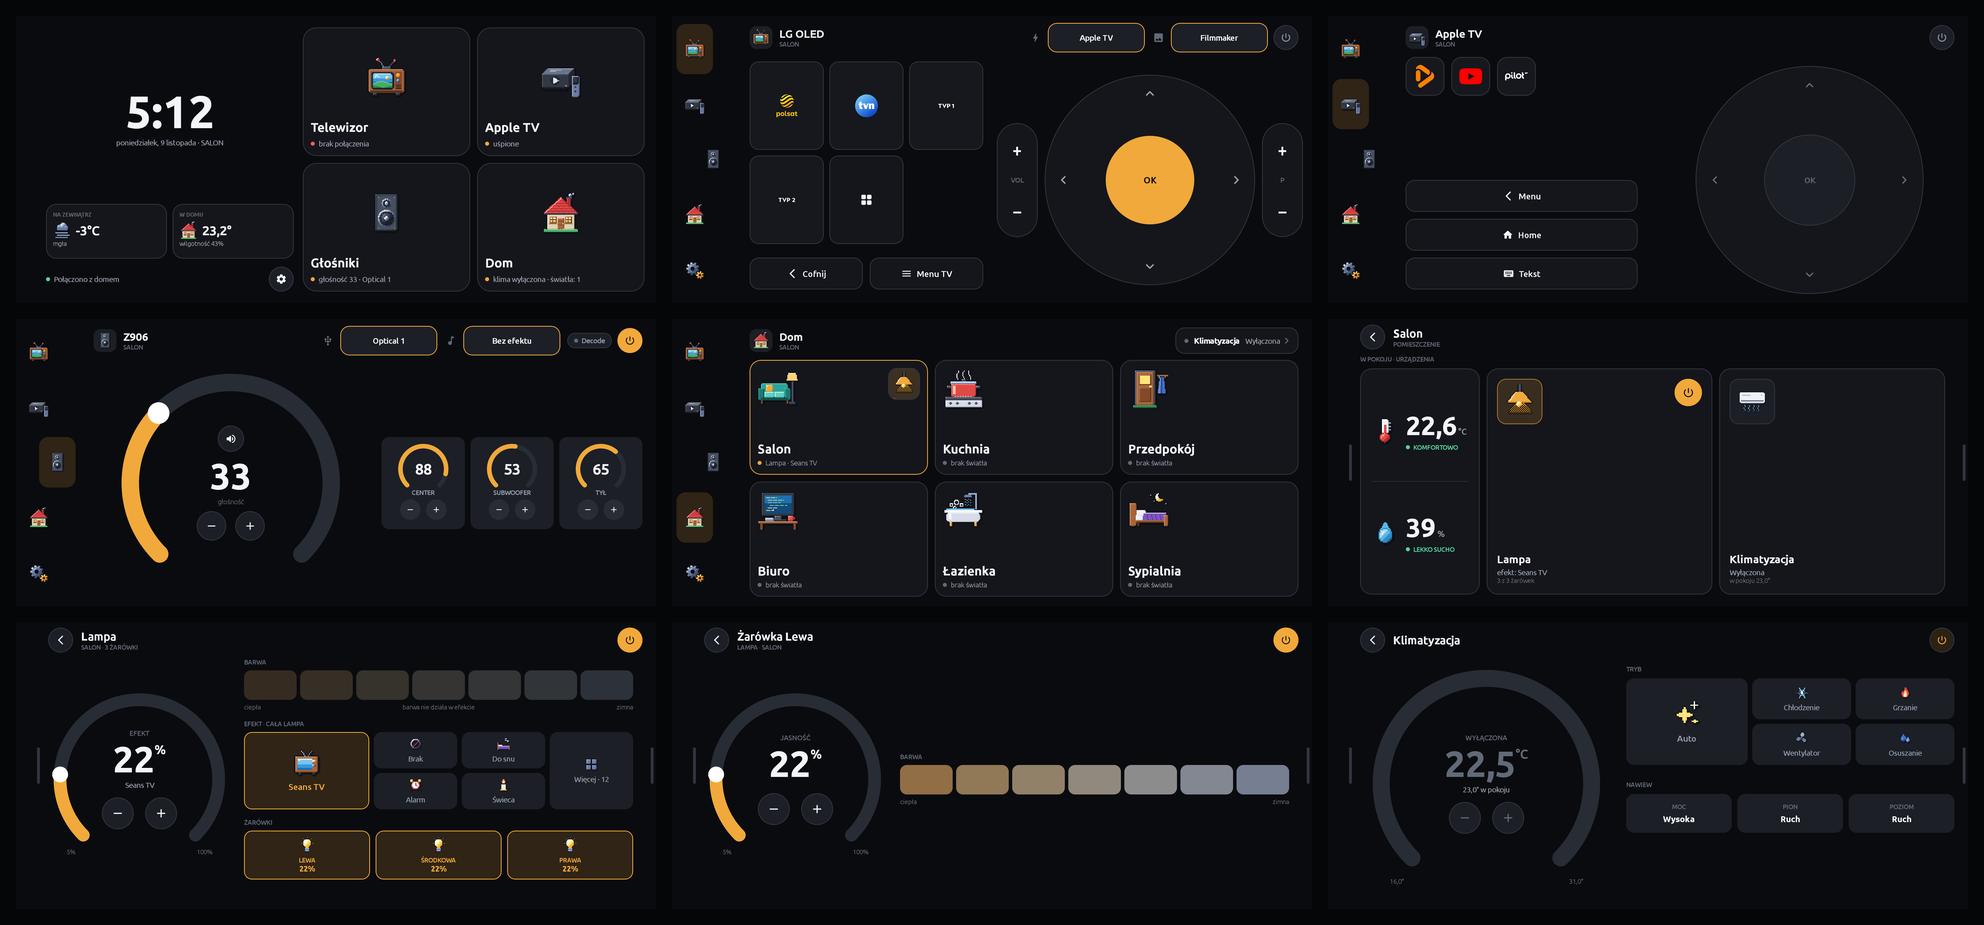
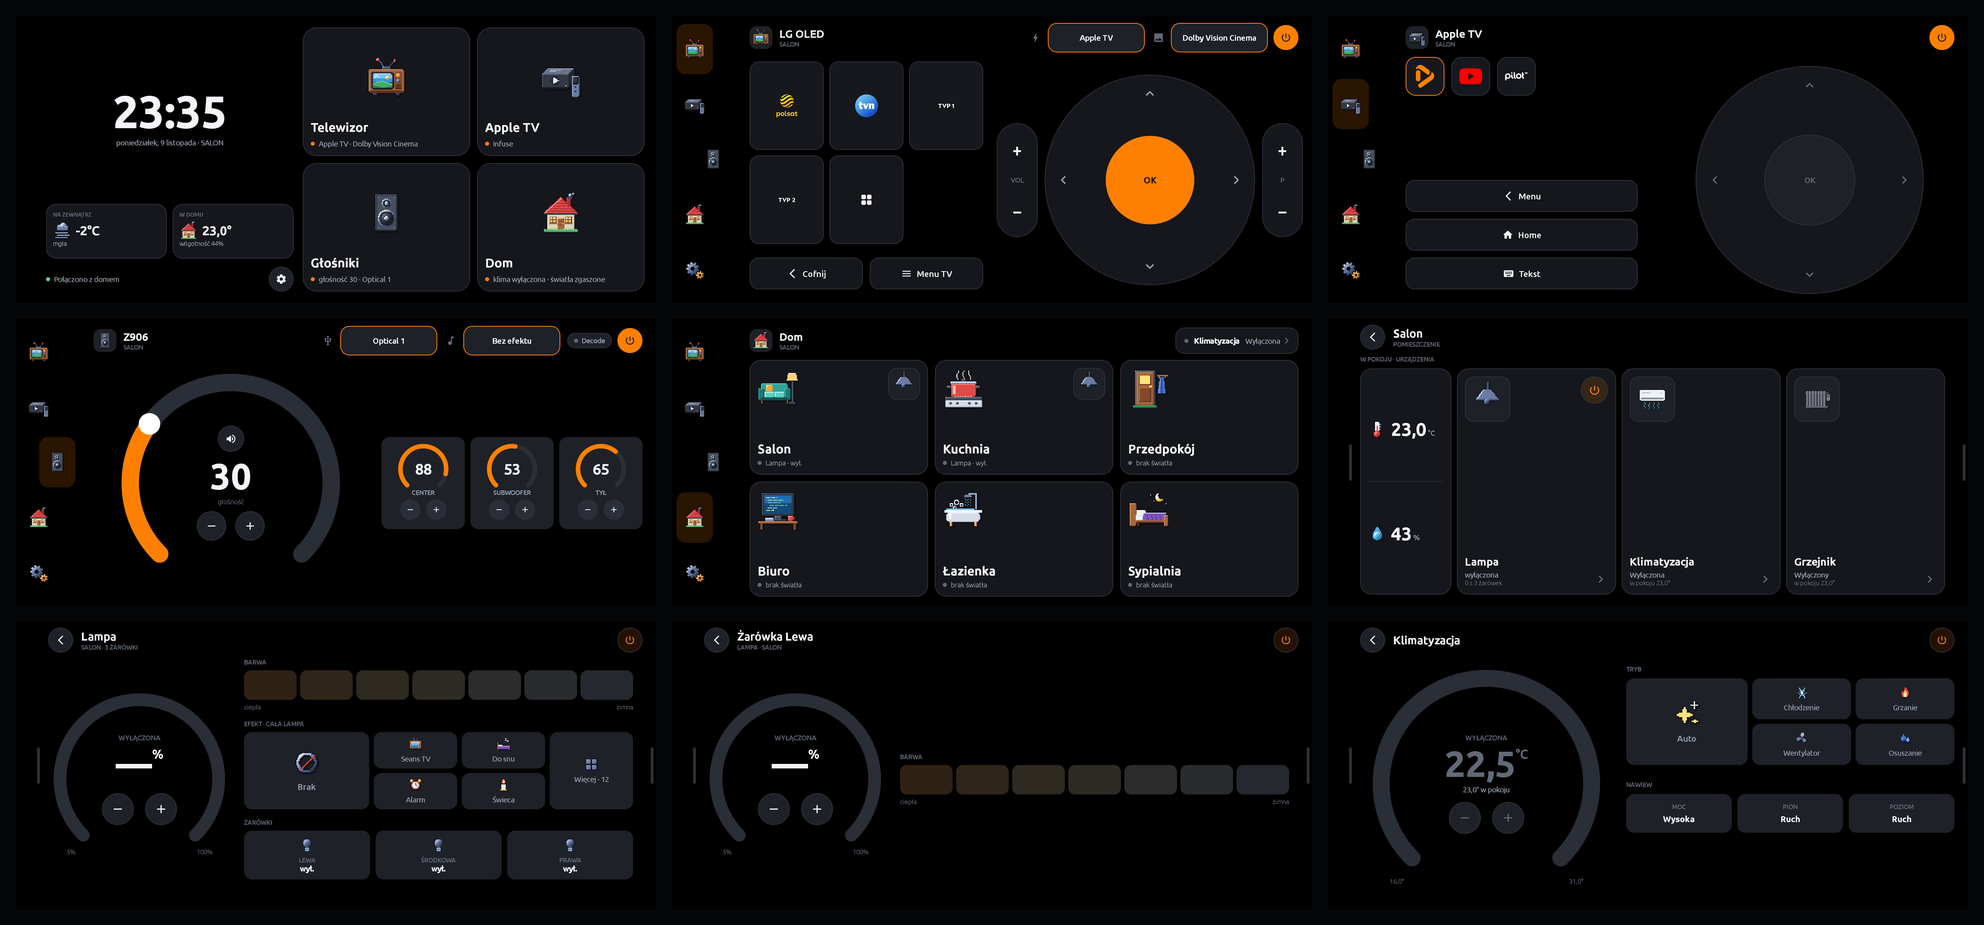
feat(android): pure black dark theme for OLED screens
Dark background goes from #0A0B0E to #000000 so OLED pixels switch off.
Cards and lines are a touch lighter to keep them apart from the black.
The board firmware palette is unchanged. Dark screenshots and README
overviews refreshed.

diff --git a/phone/native/app/src/main/java/app/couchpad/pilot/ui/theme/Theme.kt b/phone/native/app/src/main/java/app/couchpad/pilot/ui/theme/Theme.kt
@@ -36,9 +36,14 @@ data class Palette(
     val accent: Color, val accentPressed: Color, val accentInk: Color, val ok: Color, val danger: Color,
 )
 
+/**
+ * Ciemny styl pod OLED: tło czysto czarne (piksele gasną — głęboka czerń, mniej prądu).
+ * Karty odrobinę jaśniejsze niż na płytce, żeby nie zlewały się z czernią; najciemniejsze
+ * szarości na OLED-zie potrafią „smużyć” przy przewijaniu.
+ */
 val DarkPalette = Palette(
-    bg = Color(0xFF0A0B0E), surface = Color(0xFF14161B), surface2 = Color(0xFF1C1F26),
-    surface3 = Color(0xFF282C35), line = Color(0xFF30353F), text = Color(0xFFF3F5F9),
+    bg = Color(0xFF000000), surface = Color(0xFF15171C), surface2 = Color(0xFF1E2128),
+    surface3 = Color(0xFF2A2E37), line = Color(0xFF2C3039), text = Color(0xFFF3F5F9),
     dim = Color(0xFF98A0AE), faint = Color(0xFF626A78), accent = Color(0xFFFF8000),
     accentPressed = Color(0xFFFF941A), accentInk = Color(0xFF17120A), ok = Color(0xFF56D6A0),
     danger = Color(0xFFFF5F5F),
